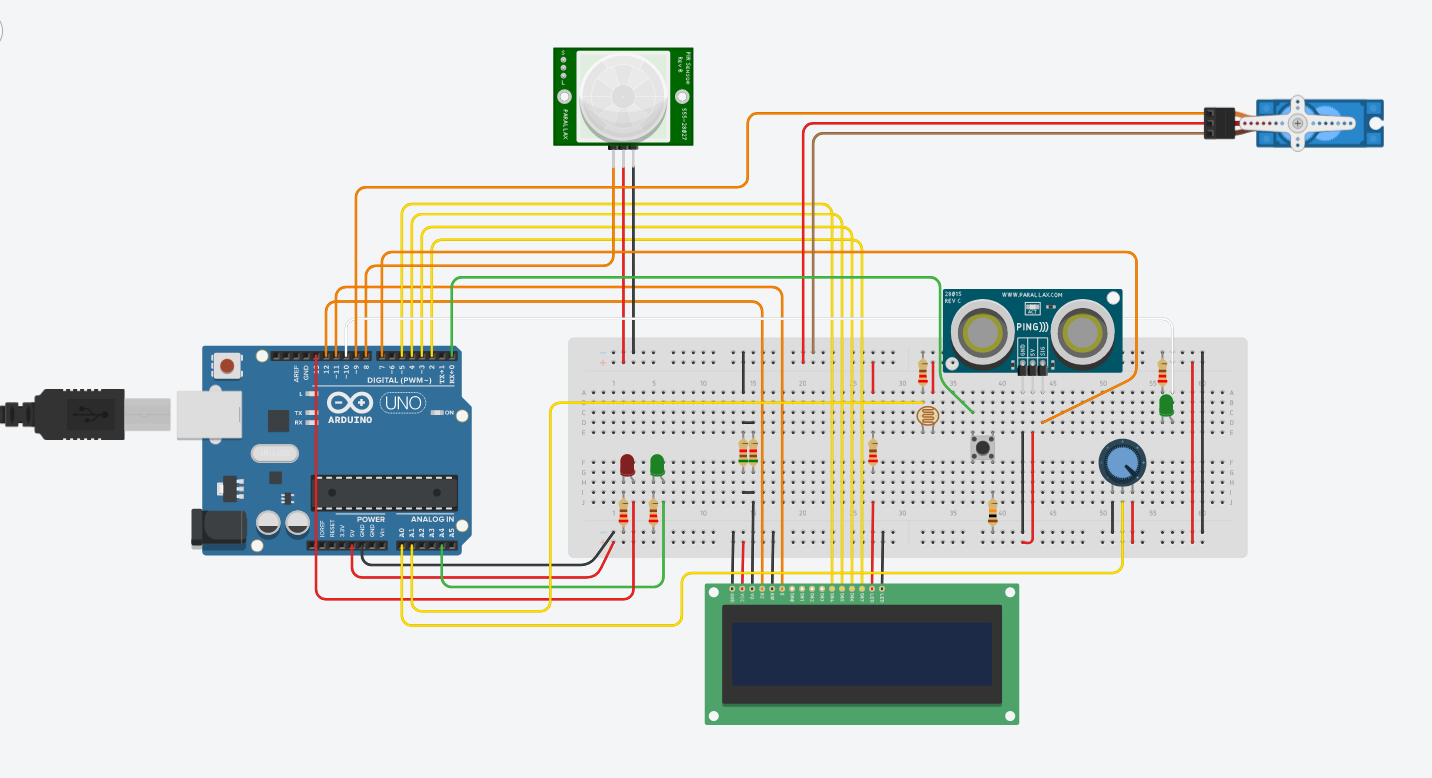
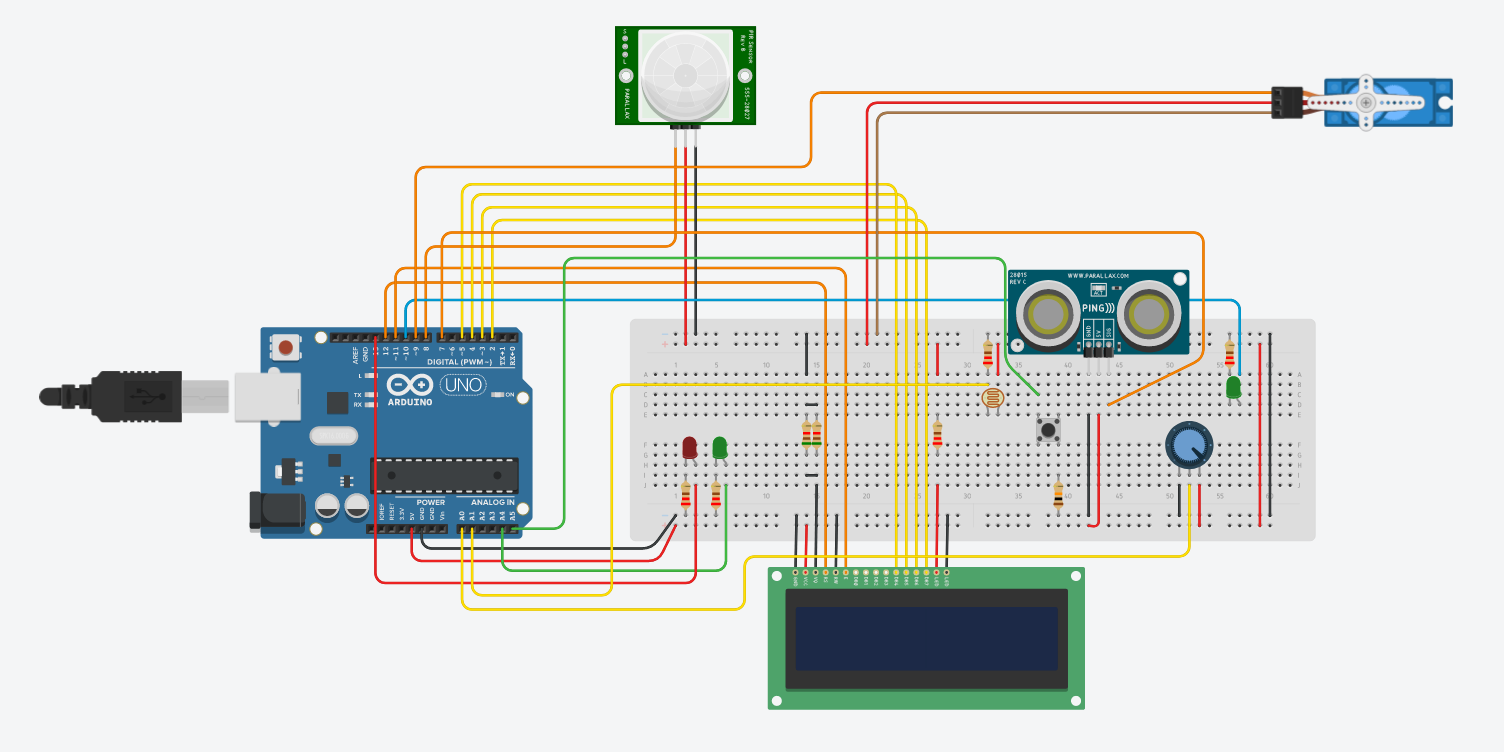
Fix button input

Changed region(s): [[0.0, 0.0306, 0.9832, 0.9481]]

diff --git a/src/arduino/smart_bridge/config.h b/src/arduino/smart_bridge/config.h
@@ -11,10 +11,11 @@
 #include "LightSensorImpl.h"
 #include "PirSensor.h"
 
-#define DEBUG_SONAR
-#define DEBUG_SERVO
-//  #define USE_NEW_PING
+// #define DEBUG_SONAR
+// #define DEBUG_SERVO
+#define DEBUG_INPUTS
 
+//  #define USE_NEW_PING
 #define USE_BRIDGE_VALVE
 
 
@@ -49,18 +50,15 @@ namespace pins {
         const unsigned int pir = 8;
     }
 
-    namespace user_btn {
-        const unsigned int btn = 0;
+    namespace user_input {
+        const unsigned int btn = A5;
+        const unsigned int pot = A0;
     }
 
     namespace ls {
         const unsigned int ls = A1;
         // Minimum light level under which the light can be turned on
         const unsigned int THl = 50;
-    }
-
-    namespace pot {
-        const unsigned int pot = A0;
     }
 
     namespace servo {

diff --git a/src/arduino/smart_bridge/ButtonImpl.cpp b/src/arduino/smart_bridge/ButtonImpl.cpp
@@ -3,11 +3,12 @@
 
 ButtonImpl::ButtonImpl(int pin){
   this->pin = pin;
-  pinMode(pin, INPUT);     
+  pinMode(pin, INPUT_PULLUP);     
 } 
   
 bool ButtonImpl::isPressed(){
-  return digitalRead(pin) == HIGH;
+  int value = digitalRead(pin);
+  return value == LOW;
 }
 
 
